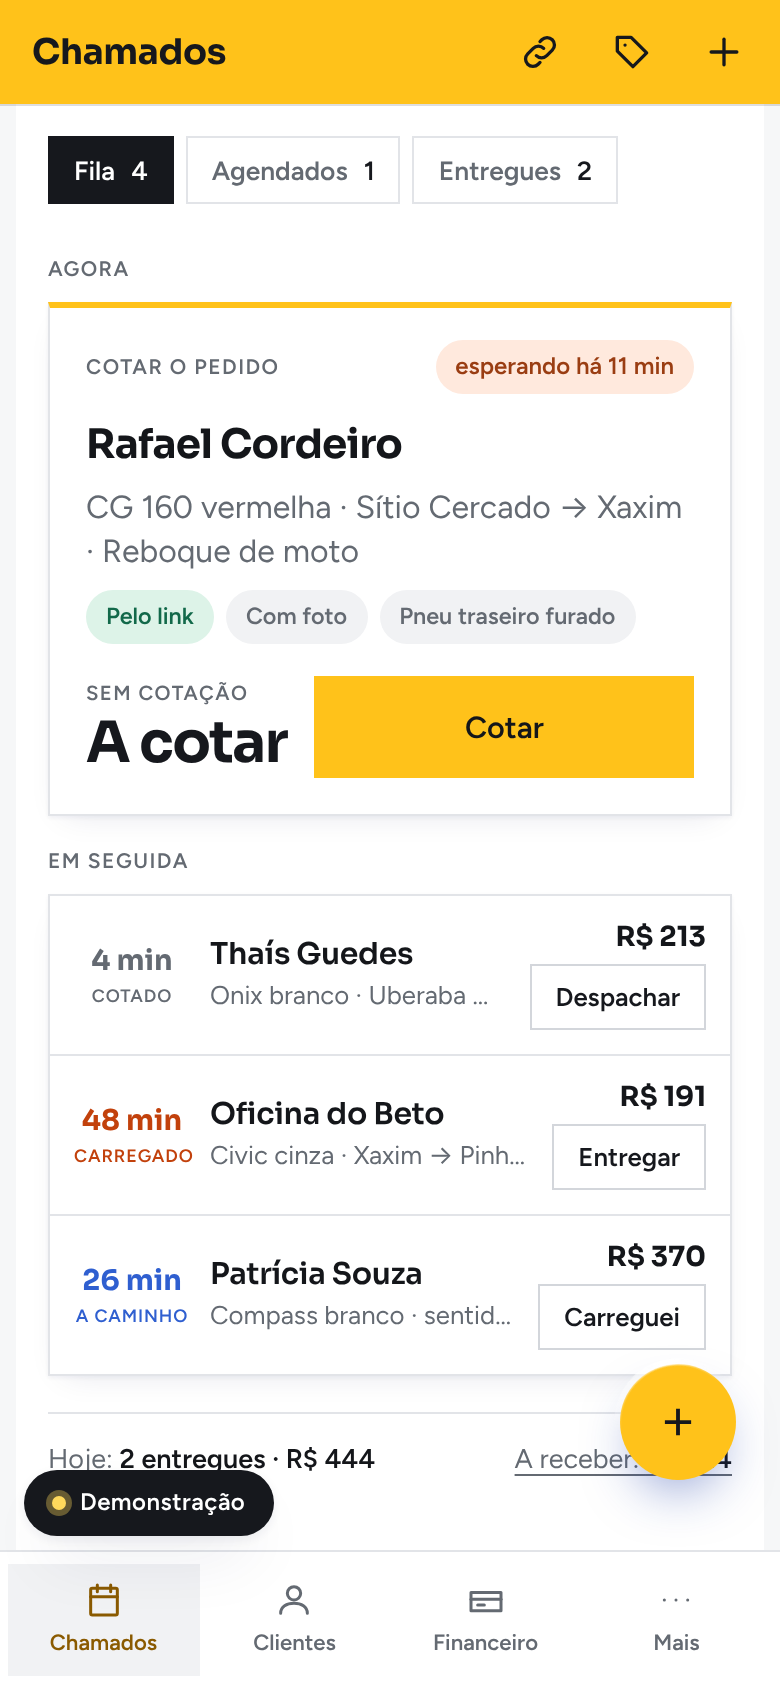
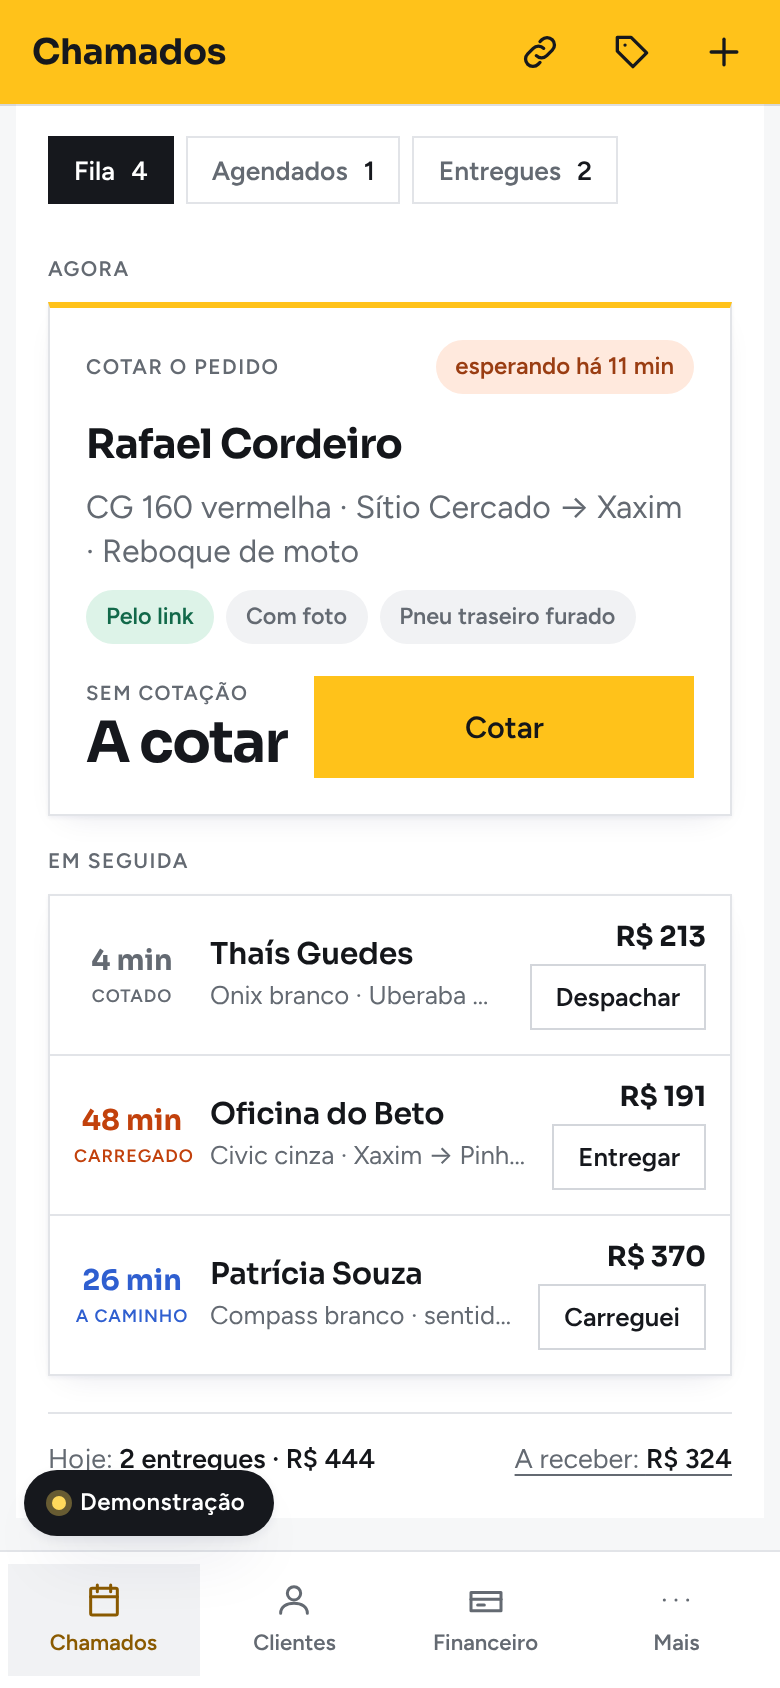
Celular: sai o botão redondo de novo chamado (fica só o ícone do topo)
Claude-Session: https://claude.ai/code/session_0174zDLKUr4AaxxTw5Sgenu9

Changed region(s): [[0.7692, 0.8009, 0.9538, 0.8934]]

diff --git a/src/app/app.css b/src/app/app.css
@@ -1262,8 +1262,6 @@ code { background: var(--nevoa); border-radius: 0; padding: 1px 6px; font-size: 
 .ch-pt-a { border: 2.5px solid var(--grafite); background: #fff; }
 .ch-pt-b { background: var(--marca); border: 2.5px solid var(--grafite); border-radius: 0; }
 .ch-rota::before { content: ''; position: absolute; left: 4.5px; top: 15px; bottom: 15px; border-left: 1.5px dashed var(--borda); }
-.ch-fab { display: none; color: var(--grafite); }
-.ch-fab:hover { background: var(--marca-hover); }
 
 .ch-form { display: grid; grid-template-columns: minmax(0, 1.25fr) minmax(0, 1fr); gap: 22px; align-items: start; }
 .ch-form-col { min-width: 0; }
@@ -1294,8 +1292,7 @@ code { background: var(--nevoa); border-radius: 0; padding: 1px 6px; font-size: 
   .ch-cabeca { gap: 10px; margin-bottom: 12px; }
   .ch-topo-acoes { width: 100%; flex-wrap: nowrap; gap: 8px; }
   .ch-topo-acoes .btn { width: auto; flex: 1 1 0; padding: 8px 10px; font-size: .86rem; min-height: 0; white-space: nowrap; }
-  .ch-fab { display: grid; }
-  .ch-esq { max-width: none; padding-bottom: 70px; }
+  .ch-esq { max-width: none; }
   .ch-agora h2 { font-size: 1.35rem; }
   .ch-linha { grid-template-columns: 58px minmax(0, 1fr) auto; gap: 10px; padding: 12px; }
   .ch-form { grid-template-columns: 1fr; gap: 14px; }

diff --git a/src/app/Chamados.tsx b/src/app/Chamados.tsx
@@ -295,7 +295,6 @@ export default function Chamados({ loja, gestao, aoMudar }: { loja: Loja; gestao
         {largo && <aside className="ch-painel">{alvo ? detalhe(alvo, true) : <p className="ch-nada">Escolha um chamado para ver os detalhes.</p>}</aside>}
       </div>
 
-      <button type="button" className="ag-fab ch-fab" aria-label="Novo chamado" onClick={() => setNovo(true)}>+</button>
 
       <Janela titulo="Novo chamado" aberta={novo} aoFechar={() => setNovo(false)} larga>
         {novo && <FormChamado loja={loja} servicos={servicos} aoCancelar={() => setNovo(false)} aoSalvar={async () => { setNovo(false); setAba('fila'); await carregar(); }} />}

diff --git a/scripts/prints_reboka.py b/scripts/prints_reboka.py
@@ -18,7 +18,7 @@ async def main():
                     await pg.goto(f"http://localhost:4399/app/?demo=1{rota}"); await pg.wait_for_timeout(1800)
                     await pg.screenshot(path=f"docs/prints/{nome}-{tela}.png", full_page=(tela == "desktop"))
                 await pg.goto("http://localhost:4399/app/?demo=1#/chamados"); await pg.wait_for_timeout(1500)
-                await pg.click(".ch-novo-desk" if tela == "desktop" else ".ch-fab"); await pg.wait_for_timeout(400)
+                await pg.click(".ch-novo-desk"); await pg.wait_for_timeout(400)
                 await pg.fill("input[placeholder='Nome de quem chamou']", "Marina Prado")
                 await pg.fill("input[placeholder='(41) 99999-0000']", "41991112222")
                 await pg.fill("input[placeholder='Onix branco']", "Gol prata")
